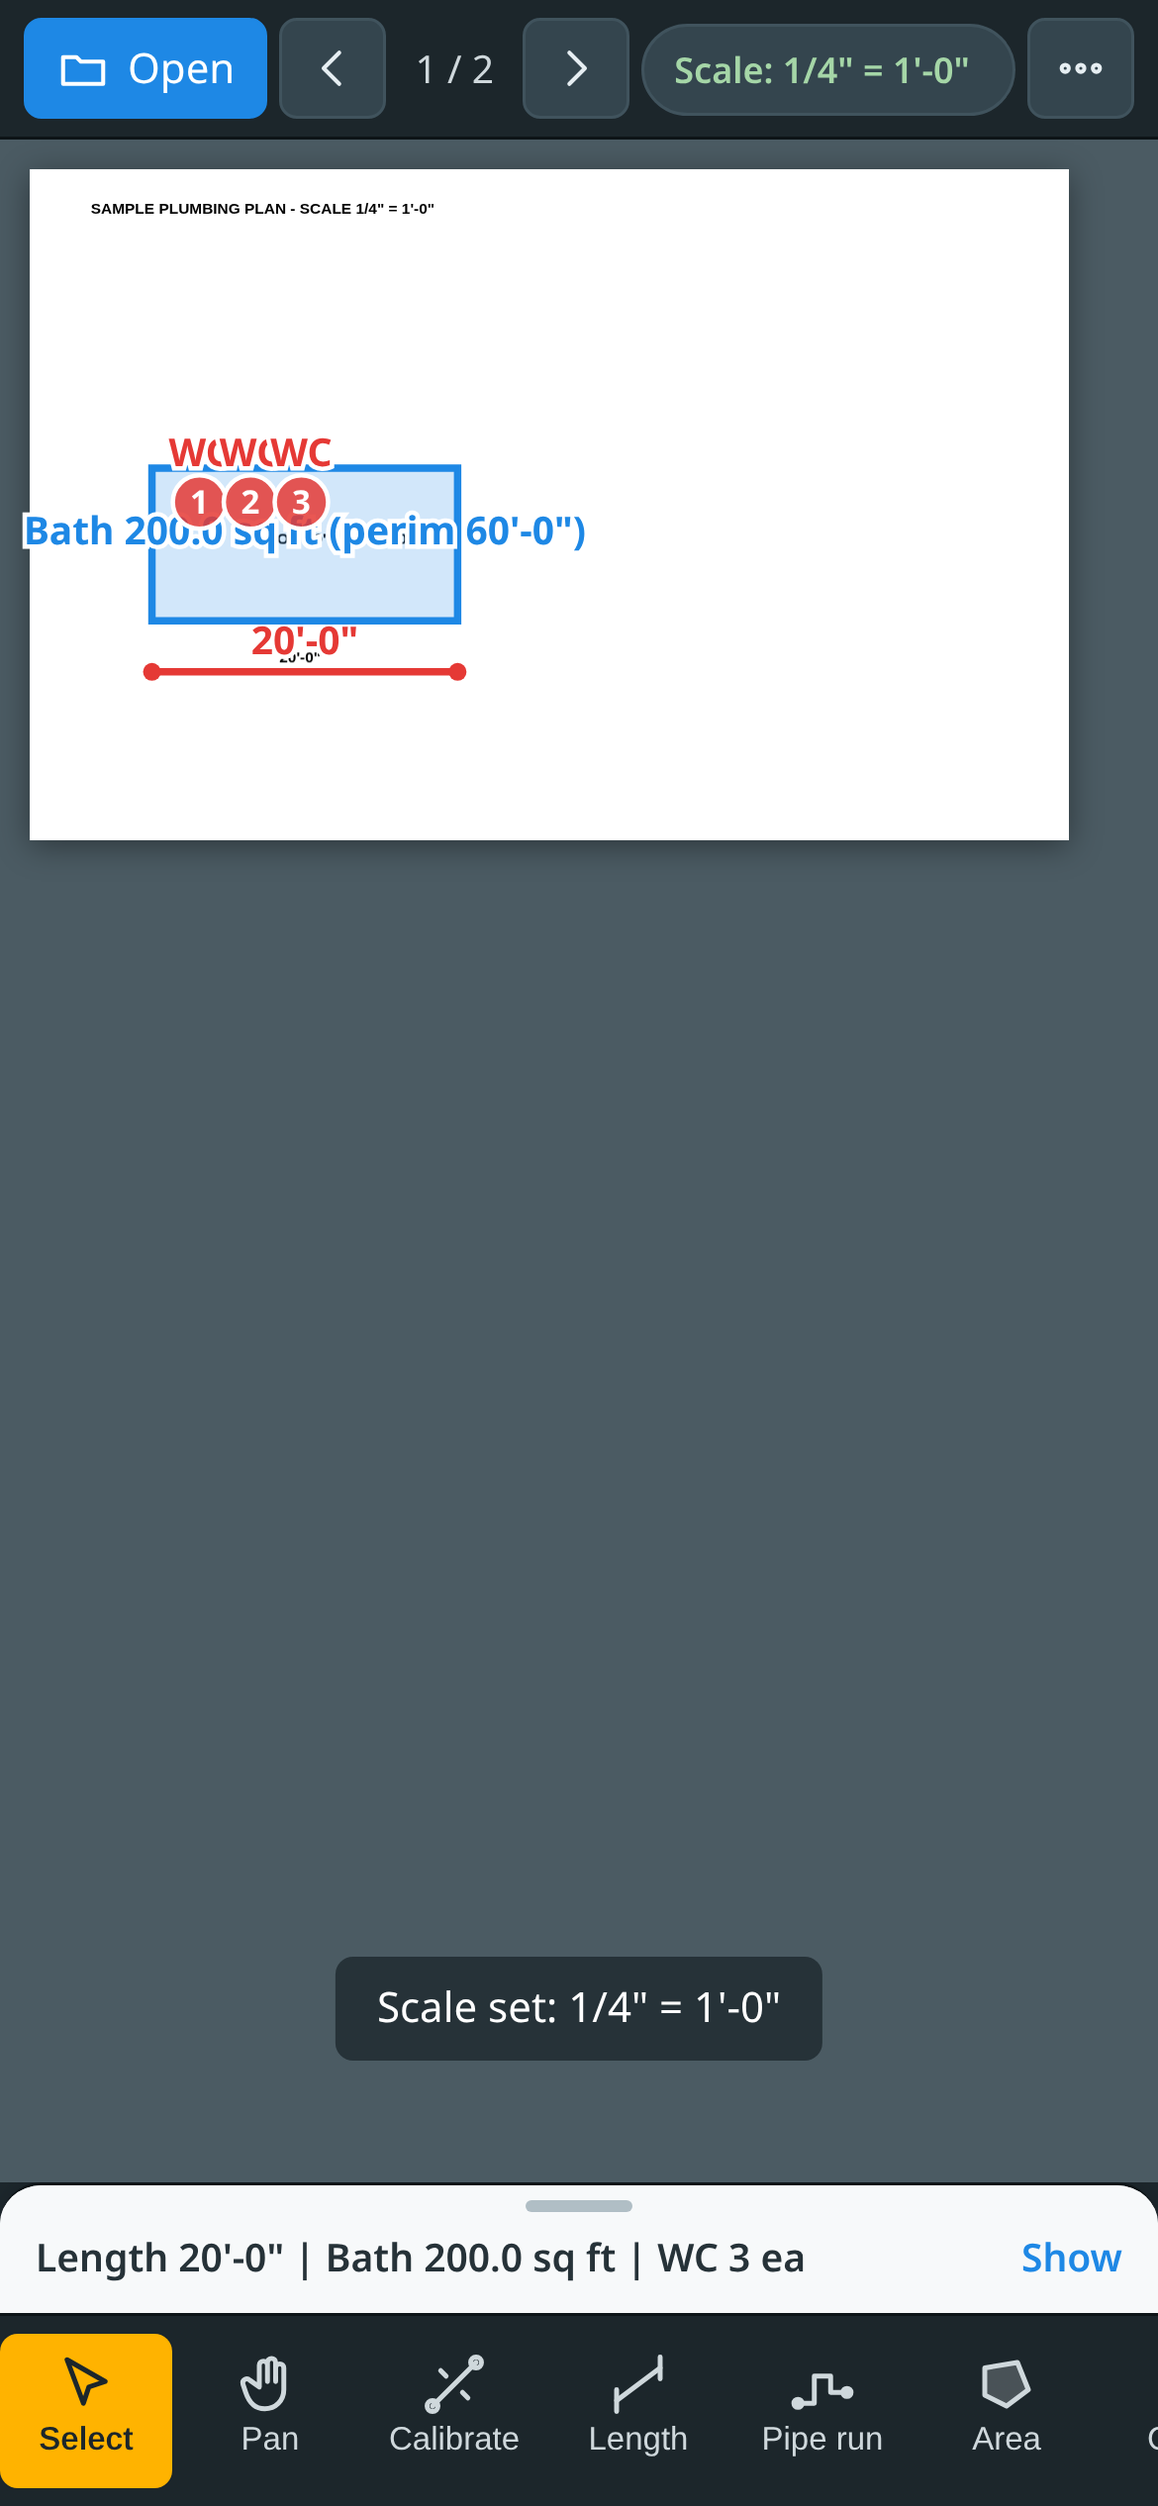
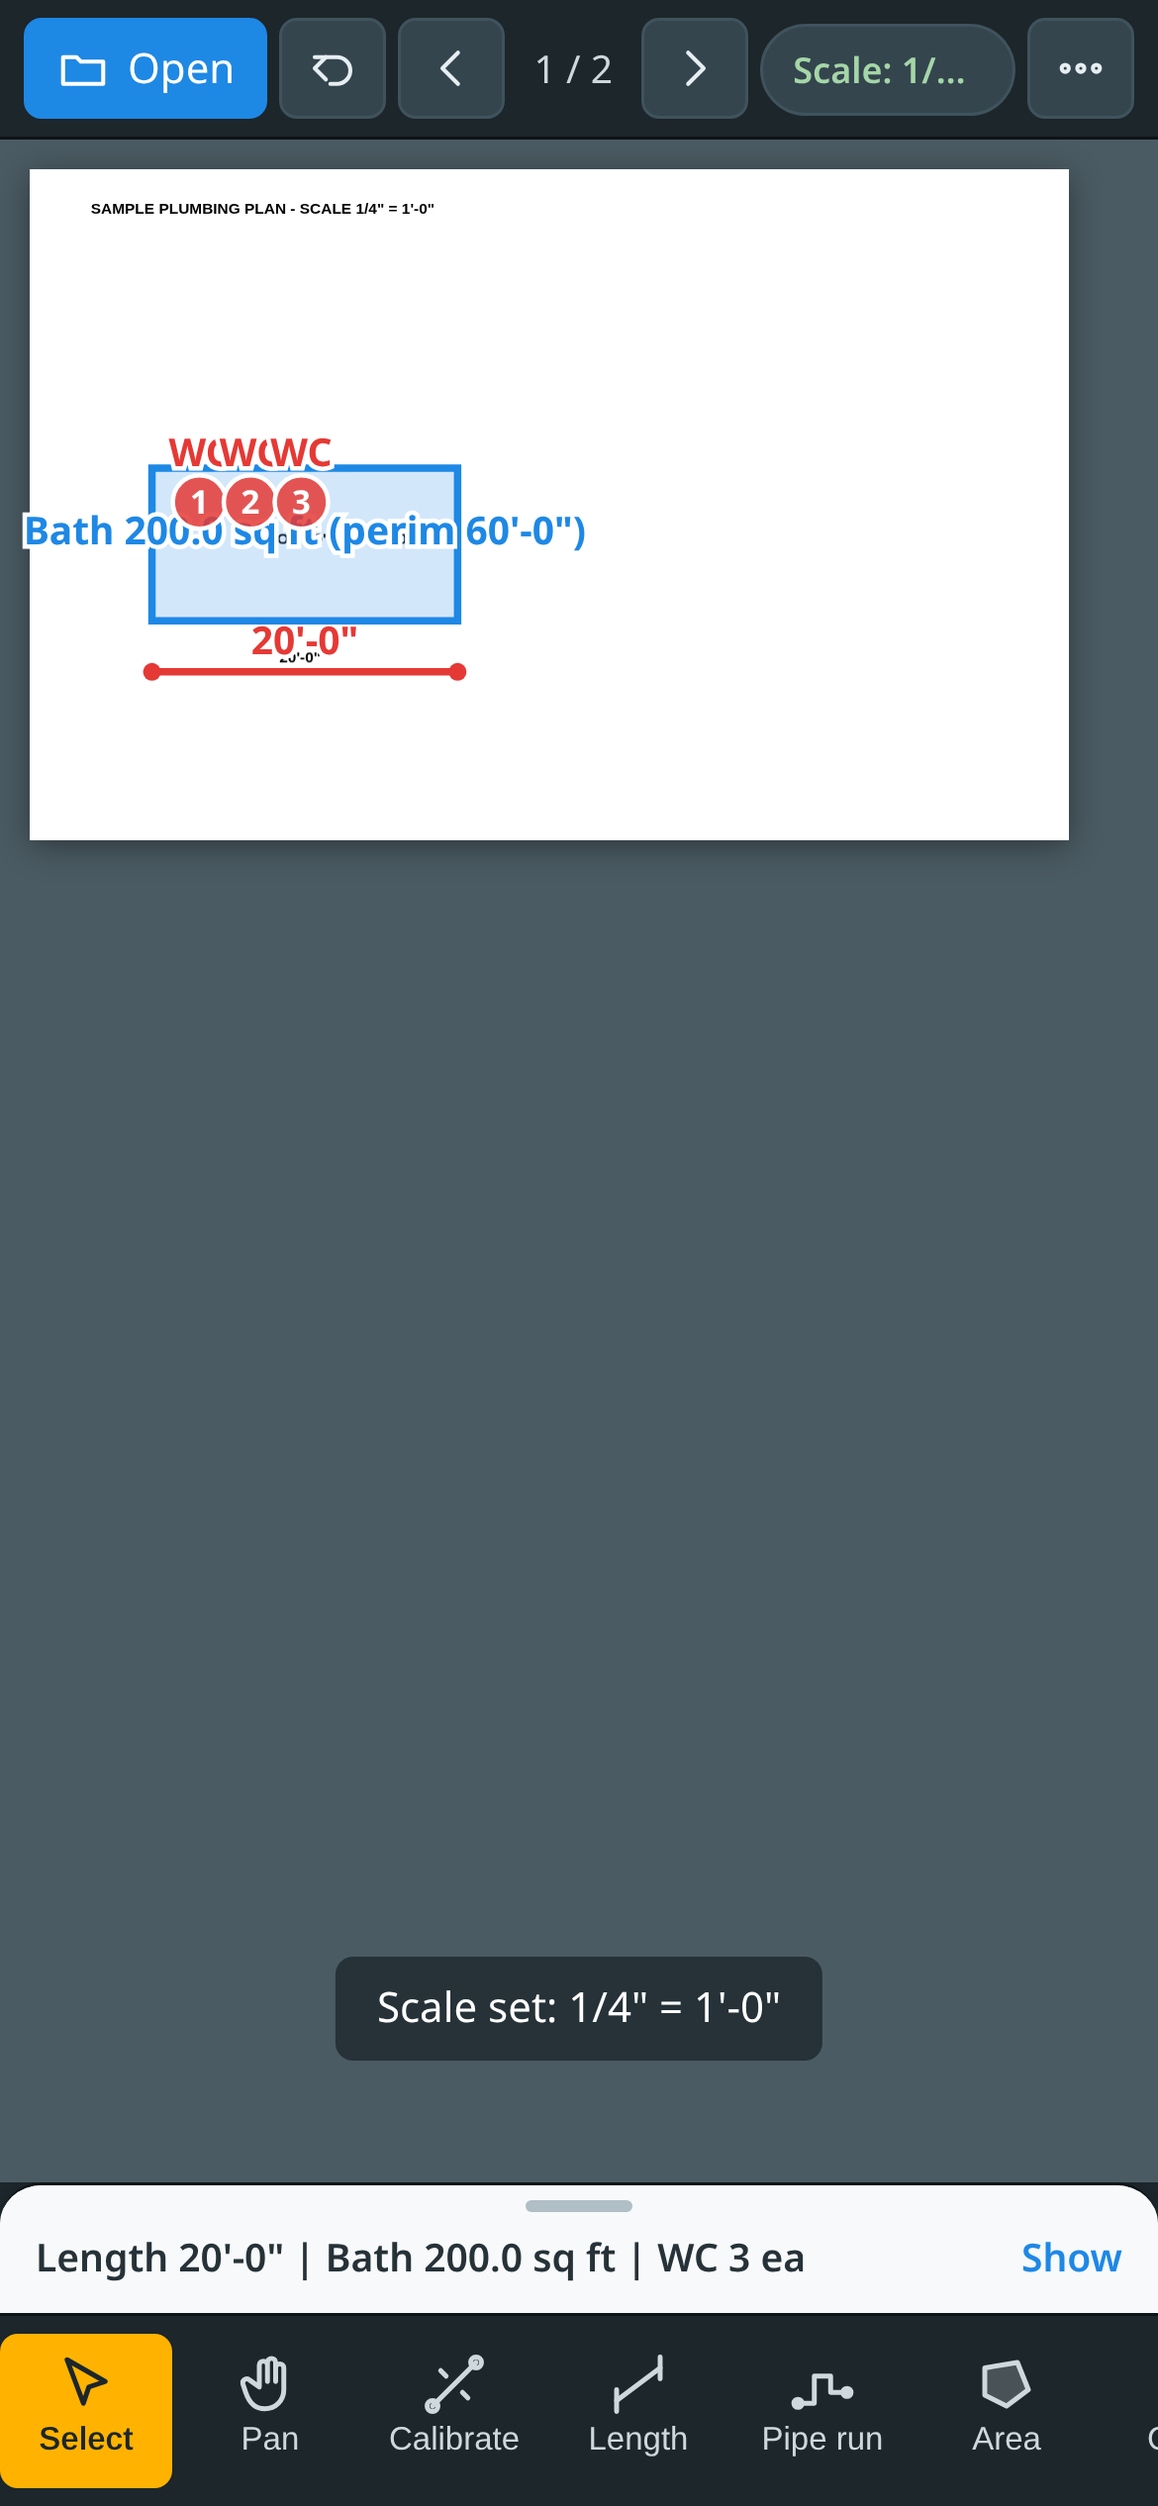
Undo/redo history

Changed region(s): [[0.3385, 0.0, 0.8308, 0.0624], [0.2769, 0.0, 0.3077, 0.0312]]

diff --git a/app.js b/app.js
@@ -39,7 +39,7 @@ async function onFile(e) { const f = e.target.files[0]; if (!f) return; e.target
   const bytes = new Uint8Array(await f.arrayBuffer());
   await loadDoc(bytes, f.type || (f.name.toLowerCase().endsWith('.pdf') ? 'application/pdf' : 'image/png'), f.name);
   proj = { id: uid(), name: f.name.replace(/\.[^.]+$/, ''), fileName: f.name, fileType: doc.mime, units: $('#units').value, scales: {}, items: [] };
-  page = 1; fitPage(); await persist(); toast('Opened ' + f.name + '. Set the scale before measuring.');
+  page = 1; resetHist(); fitPage(); await persist(); toast('Opened ' + f.name + '. Set the scale before measuring.');
 }
 $('#file').addEventListener('change', onFile);
 
@@ -153,7 +153,7 @@ $('#eText').addEventListener('input', e => { const it = selItem(); if (it) { it.
 $('#eExtra').addEventListener('change', e => { const it = selItem(); if (!it) return; const v = e.target.value.trim() ? Units.parseLength(e.target.value, proj.units) : 0; if (isNaN(v)) return toast('Could not read that length'); it.extra = v; changed(); });
 $('#eDel').addEventListener('click', deleteSel);
 function deleteSel() { if (!selId) return; proj.items = proj.items.filter(i => i.id !== selId); selId = null; changed(); }
-function changed() { draw(); persistSoon(); }
+function changed() { draw(); persistSoon(); commitSoon(); }
 
 // ---------- navigation & zoom ----------
 function gotoPage(n) { if (!doc) return; n = Math.max(1, Math.min(doc.numPages, n)); if (n !== page) { page = n; draft = null; } fitPage(); }
@@ -265,6 +265,8 @@ document.addEventListener('keydown', e => {
   if (e.key.startsWith('Arrow') && draft && draft.pts.length) { e.preventDefault(); const d = { ArrowLeft: [-1, 0], ArrowRight: [1, 0], ArrowUp: [0, -1], ArrowDown: [0, 1] }[e.key]; nudge(d[0], d[1]); return; }
   if (e.key.toLowerCase() === 'm' && !e.ctrlKey && !e.metaKey) { toggleLoupe(); return; }
   if (e.key === 'Tab' && draft && draft.pts.length > 1) { e.preventDefault(); calSel = (calSel + 1) % draft.pts.length; draw(); return; }
+  if ((e.ctrlKey || e.metaKey) && (e.key.toLowerCase() === 'y' || (e.key.toLowerCase() === 'z' && e.shiftKey))) { e.preventDefault(); redo(); return; }
+  if ((e.ctrlKey || e.metaKey) && e.key.toLowerCase() === 'z') { e.preventDefault(); undo(); return; }
   if (e.key === 'Enter') { e.preventDefault(); finishDraft(); }
   else if (e.key === 'Escape') { draft = null; hover = null; selId = null; draw(); }
   else if (e.key === 'Delete' || (e.key === 'Backspace' && !draft)) deleteSel();
@@ -276,7 +278,7 @@ document.addEventListener('keyup', e => { if (e.key === 'Shift') shiftDown = fal
 // ---------- scale ----------
 Units.STD.forEach((s, i) => { const o = document.createElement('option'); o.value = i; o.textContent = s.name; $('#stdScale').appendChild(o); });
 $('#stdScale').value = Units.STD.findIndex(s => s.ratio === 48);
-function applyScale(mPerUnit, name, all) { const pgs = all ? Array.from({ length: doc.numPages }, (_, i) => i + 1) : [page]; proj.scaleNames = proj.scaleNames || {}; pgs.forEach(p => { proj.scales[p] = mPerUnit; proj.scaleNames[p] = name; }); layout(); persistSoon(); toast('Scale set: ' + name); }
+function applyScale(mPerUnit, name, all) { const pgs = all ? Array.from({ length: doc.numPages }, (_, i) => i + 1) : [page]; proj.scaleNames = proj.scaleNames || {}; pgs.forEach(p => { proj.scales[p] = mPerUnit; proj.scaleNames[p] = name; }); layout(); persistSoon(); commitHist(); toast('Scale set: ' + name); }
 $('#scaleBtn').onclick = () => { if (!doc) return toast('Open a plan first'); $('#imgDpiRow').hidden = doc.type !== 'image'; $('#scaleDlg').showModal(); };
 $('#scaleDlg').addEventListener('close', () => { if ($('#scaleDlg').returnValue !== 'ok') return; const s = Units.STD[$('#stdScale').value];
   let m = s.mPerPt; if (doc.type === 'image') m = s.ratio * Units.IN / (+$('#imgDpi').value || 150); applyScale(m, s.name, $('#allPages').checked); });
@@ -352,7 +354,7 @@ async function idb(mode, fn) { const d = await db(); return new Promise((res, re
 let saveTimer; function persistSoon() { clearTimeout(saveTimer); saveTimer = setTimeout(persist, 800); }
 async function persist() { if (!proj || !doc) return; try { await idb('readwrite', s => s.put({ ...JSON.parse(JSON.stringify(proj)), bytes: doc.bytes, updated: Date.now() })); localStorage.setItem('pm-last', proj.id); } catch (e) { toast('Could not save: ' + e.message); } }
 $('#saveBtn').onclick = async () => { if (!proj) return; const n = prompt('Project name:', proj.name); if (n) { proj.name = n; await persist(); toast('Saved in this browser'); } };
-async function openProject(id) { const r = await idb('readonly', s => s.get(id)); if (!r) return; const { bytes, updated, ...p } = r; await loadDoc(new Uint8Array(bytes), p.fileType, p.fileName); proj = p; $('#units').value = p.units; page = 1; selId = null; draft = null; fitPage(); localStorage.setItem('pm-last', id); }
+async function openProject(id) { const r = await idb('readonly', s => s.get(id)); if (!r) return; const { bytes, updated, ...p } = r; await loadDoc(new Uint8Array(bytes), p.fileType, p.fileName); proj = p; resetHist(); $('#units').value = p.units; page = 1; selId = null; draft = null; fitPage(); localStorage.setItem('pm-last', id); }
 $('#projBtn').onclick = async () => { const all = await idb('readonly', s => s.getAll()); all.sort((a, b) => b.updated - a.updated);
   $('#projList').innerHTML = all.map(p => `<div class="proj"><span>${esc(p.name)}<br><small>${new Date(p.updated).toLocaleString()} - ${p.items.length} items</small></span><button type="button" class="btn" data-open="${p.id}">Open</button><button type="button" class="btn danger" data-del="${p.id}">Delete</button></div>`).join('') || 'No saved projects.';
   $('#projDlg').showModal(); };
@@ -362,7 +364,7 @@ $('#projList').addEventListener('click', async e => { const o = e.target.dataset
 setTool('select'); $('#hint').textContent = 'Open a PDF or image plan to start. Your work is saved automatically in this browser.';
 (async () => { const last = localStorage.getItem('pm-last'); if (last) try { await openProject(last); } catch (e) { } })();
 // test hook
-window.PM = { get draft() { return draft; }, get proj() { return proj; }, get doc() { return doc; }, measure, buildCSV, buildPDF, setTool, gotoPage, applyScale, get zoom() { return zoom; } };
+window.PM = { undo: () => undo(), redo: () => redo(), get hist() { return { u: H.u.length, r: H.r.length }; }, get draft() { return draft; }, get proj() { return proj; }, get doc() { return doc; }, measure, buildCSV, buildPDF, setTool, gotoPage, applyScale, get zoom() { return zoom; } };
 $('#calVal').addEventListener('keydown', e => { if (e.key === 'Enter') { e.preventDefault(); $('#calDlg').close('ok'); } });
 // ---- icons (inline SVG, no external assets) ----
 const ICONS = {
@@ -371,7 +373,7 @@ const ICONS = {
  fit:'<path d="M4 9V4h5M20 9V4h-5M4 15v5h5M20 15v5h-5"/>', ruler:'<path d="M3 16L16 3l5 5L8 21z"/><path d="M7 12l2 2M10 9l2 2M13 6l2 2"/>',
  table:'<rect x="3" y="4" width="18" height="16" rx="1"/><path d="M3 10h18M3 15h18M9 4v16"/>', download:'<path d="M12 3v12M7 10l5 5 5-5M4 20h16"/>',
  panel:'<rect x="3" y="4" width="18" height="16" rx="1"/><path d="M15 4v16"/>', close:'<path d="M6 6l12 12M18 6L6 18"/>',
- select:'<path d="M5 3l14 8-6 2-2 6z"/>', loupe:'<circle cx="10" cy="10" r="6"/><path d="M14.5 14.5L20 20M10 7v6M7 10h6"/>', up:'<path d="M5 15l7-7 7 7"/>', down:'<path d="M5 9l7 7 7-7"/>', more:'<circle cx="5" cy="12" r="1.6"/><circle cx="12" cy="12" r="1.6"/><circle cx="19" cy="12" r="1.6"/>', hand:'<path d="M8 13V5a1.5 1.5 0 013 0v6M11 11V4a1.5 1.5 0 013 0v7M14 11V6a1.5 1.5 0 013 0v8c0 4-3 7-7 7s-6-3-7-6l-1-3a1.5 1.5 0 012.5-1.5L8 13"/>',
+ undo:'<path d="M9 14L4 9l5-5"/><path d="M4 9h10a6 6 0 010 12h-4"/>', redo:'<path d="M15 14l5-5-5-5"/><path d="M20 9H10a6 6 0 000 12h4"/>', select:'<path d="M5 3l14 8-6 2-2 6z"/>', loupe:'<circle cx="10" cy="10" r="6"/><path d="M14.5 14.5L20 20M10 7v6M7 10h6"/>', up:'<path d="M5 15l7-7 7 7"/>', down:'<path d="M5 9l7 7 7-7"/>', more:'<circle cx="5" cy="12" r="1.6"/><circle cx="12" cy="12" r="1.6"/><circle cx="19" cy="12" r="1.6"/>', hand:'<path d="M8 13V5a1.5 1.5 0 013 0v6M11 11V4a1.5 1.5 0 013 0v7M14 11V6a1.5 1.5 0 013 0v8c0 4-3 7-7 7s-6-3-7-6l-1-3a1.5 1.5 0 012.5-1.5L8 13"/>',
  cal:'<path d="M4 20L20 4"/><circle cx="4" cy="20" r="2"/><circle cx="20" cy="4" r="2"/><path d="M9 9l-2-2M15 15l2 2"/>', line:'<path d="M4 18L20 6"/><path d="M4 14v8M20 2v8"/>',
  poly:'<path d="M3 19h6V9h6v6h6"/><circle cx="3" cy="19" r="1.5"/><circle cx="21" cy="15" r="1.5"/>', area:'<path d="M4 6l12-2 4 10-8 6-8-4z" fill="currentColor" fill-opacity=".25"/>',
  count:'<circle cx="7" cy="8" r="3"/><circle cx="17" cy="8" r="3"/><circle cx="12" cy="17" r="3"/>', text:'<path d="M5 5h14M12 5v14M9 19h6"/>'
@@ -478,3 +480,22 @@ const _udb = updateDrawBar; updateDrawBar = function () { _udb(); const adj = !!
   document.body.classList.toggle('placing', PLACE.includes(tool)); $('#ptSel').textContent = 'Point ' + (Math.min(calSel, draft ? draft.pts.length - 1 : 0) + 1); };
 const _setTool = setTool; setTool = function (t) { hideLoupe(); _setTool(t); };
 document.querySelectorAll('.tool').forEach(b => b.onclick = () => setTool(b.dataset.tool));
+
+// ---- undo / redo history (snapshots of items + scales, max 100) ----
+const H = { u: [], r: [], cur: null, t: null };
+const snap = () => JSON.stringify({ items: proj.items, scales: proj.scales, scaleNames: proj.scaleNames || {} });
+function resetHist() { H.u = []; H.r = []; H.cur = proj ? snap() : null; clearTimeout(H.t); H.t = null; updHistBtns(); }
+function commitHist() { clearTimeout(H.t); H.t = null; if (!proj) return; const s = snap(); if (H.cur !== null && s !== H.cur) { H.u.push(H.cur); if (H.u.length > 100) H.u.shift(); H.r = []; } H.cur = s; updHistBtns(); }
+function commitSoon() { clearTimeout(H.t); H.t = setTimeout(commitHist, 400); updHistBtns(); }
+function restore(s) { const o = JSON.parse(s); proj.items = o.items; proj.scales = o.scales; proj.scaleNames = o.scaleNames; H.cur = s;
+  if (selId && !proj.items.some(i => i.id === selId)) selId = null; layout(); persistSoon(); updHistBtns(); }
+function undo() {
+  if (draft && draft.pts.length) { draft.pts.pop(); if (!draft.pts.length) draft = null; draw(); updHistBtns(); return; }
+  commitHist(); if (!H.u.length) return; H.r.push(H.cur); restore(H.u.pop()); toast('Undone');
+}
+function redo() { commitHist(); if (!H.r.length) return; H.u.push(H.cur); restore(H.r.pop()); toast('Redone'); }
+function updHistBtns() { const pending = !!H.t; const canU = !!(draft && draft.pts.length) || H.u.length > 0 || !!pending, canR = H.r.length > 0 && !pending;
+  $('#undoBtn').disabled = !canU; $('#redoBtn').disabled = !canR; $('#redoMenu').disabled = !canR; }
+$('#undoBtn').onclick = undo; $('#redoBtn').onclick = redo;
+const _draw2 = draw; draw = function () { _draw2(); updHistBtns(); };
+if (proj) resetHist();

diff --git a/index.html b/index.html
@@ -9,6 +9,7 @@
   <label class="btn primary" data-icon="open">Open plan<input id="file" type="file" accept="application/pdf,image/*" hidden></label>
   <button id="saveBtn" class="btn" title="Save project" data-icon="save">Save</button>
   <button id="projBtn" class="btn" title="Saved projects" data-icon="folder">Projects</button>
+  <button id="undoBtn" class="btn icon" data-icon="undo" title="Undo (Ctrl+Z)" disabled></button><button id="redoBtn" class="btn icon" data-icon="redo" title="Redo (Ctrl+Shift+Z / Ctrl+Y)" disabled></button>
   <span class="sep"></span>
   <button id="prev" class="btn icon" data-icon="left" title="Previous page"></button><span id="pageInfo">-</span><button id="next" class="btn icon" data-icon="right" title="Next page"></button>
   <span class="sep"></span>
@@ -42,6 +43,7 @@
 </nav>
 <div id="drawBar"><div id="drawSlot"></div><button id="cancelBtn" class="btn small" data-icon="close">Cancel</button></div>
 <div id="moreMenu" hidden>
+  <button class="btn" data-icon="redo" data-proxy="#redoBtn" id="redoMenu">Redo</button>
   <button class="btn" data-icon="ruler" data-proxy="#scaleBtn">Set scale</button>
   <button class="btn" data-icon="fit" data-proxy="#fit">Fit page</button>
   <button class="btn" data-icon="save" data-proxy="#saveBtn">Save</button>

diff --git a/style.css b/style.css
@@ -142,3 +142,7 @@ body:not(.caladj) #calSetBtn{display:none}
 @media (min-width:701px) and (max-width:1500px){#tools .tool span.t{display:none}}
 @media (max-width:700px){body.caladj #undoPt{display:none}body.caladj #cancelBtn .t{display:none}body.caladj #ptSel{padding:4px 6px}}
 @media (max-width:700px){body.cal.adj.placing #drawSlot .opt.lp,body.adj.placing #drawSlot .opt.lp{display:none}}
+.btn:disabled{opacity:.4;cursor:default}
+#moreMenu .btn:disabled{opacity:.35}
+@media (min-width:701px){#redoMenu{display:none}}
+@media (max-width:700px){#redoBtn{display:none}#undoBtn{padding:6px}}

diff --git a/test/undo.py b/test/undo.py
@@ -1,0 +1,46 @@
+import sys, json
+from playwright.sync_api import sync_playwright
+URL=sys.argv[1]; H=792; IN=72; ok=True
+def chk(n,c):
+    global ok; ok&=bool(c); print(('PASS ' if c else 'FAIL ')+n)
+with sync_playwright() as p:
+    b=p.chromium.launch(executable_path='/usr/bin/google-chrome',args=['--no-sandbox'])
+    pg=b.new_page(viewport={'width':1600,'height':950}); errs=[]; pg.on('pageerror',lambda e:errs.append(str(e)))
+    pg.goto(URL); pg.set_input_files('#file','test/sample-plan.pdf'); pg.wait_for_function('window.PM.proj'); pg.wait_for_timeout(400)
+    def scr(x,y):
+        r=pg.evaluate("(()=>{const r=document.querySelector('#svg').getBoundingClientRect();return [r.left,r.top]})()"); z=pg.evaluate('PM.zoom'); return r[0]+x*z, r[1]+(H-y)*z
+    def n(): return pg.evaluate('PM.proj.items.length')
+    chk('undo disabled at start', pg.is_disabled('#undoBtn') and pg.is_disabled('#redoBtn'))
+    pg.click('#scaleBtn'); pg.select_option('#stdScale',label='1/4" = 1\'-0"'); pg.click('#stdOk')
+    pg.click('[data-tool=line]'); pg.mouse.click(*scr(144,200)); pg.mouse.click(*scr(504,200)); pg.wait_for_timeout(500)
+    pg.click('[data-tool=poly]'); pg.mouse.click(*scr(600,200)); pg.mouse.click(*scr(700,200)); pg.mouse.click(*scr(700,300))
+    pg.click('#undoBtn'); chk('undo while drawing removes last point', pg.evaluate('PM.draft.pts.length')==2); pg.click('#finishBtn'); pg.wait_for_timeout(500)
+    chk('2 items', n()==2)
+    # move (drag) line item with select tool
+    pg.click('[data-tool=select]'); a=scr(300,200); pg.mouse.move(*a); pg.mouse.down(); pg.mouse.move(a[0],a[1]+40,steps=5); pg.mouse.up(); pg.wait_for_timeout(500)
+    y_after=pg.evaluate('PM.proj.items[0].pts[0][1]')
+    pg.fill('#eLabel','Main'); pg.wait_for_timeout(600)
+    pg.evaluate('document.activeElement.blur()'); pg.keyboard.press('Delete'); pg.wait_for_timeout(500); chk('deleted', n()==1)
+    pg.keyboard.press('Control+z'); pg.wait_for_timeout(100); chk('ctrl+z restores delete', n()==2 and pg.evaluate('PM.proj.items[0].label')=='Main')
+    pg.click('#undoBtn'); chk('undo label edit', pg.evaluate('PM.proj.items[0].label')=='')
+    pg.click('#undoBtn'); chk('undo move', abs(pg.evaluate('PM.proj.items[0].pts[0][1]')-(H-200))<0.01 and y_after!=H-200)
+    pg.click('#undoBtn'); chk('undo add poly', n()==1)
+    pg.click('#undoBtn'); chk('undo add line', n()==0)
+    pg.click('#undoBtn'); chk('undo scale', not pg.evaluate('PM.proj.scales[1]'))
+    chk('undo disabled when empty', pg.is_disabled('#undoBtn'))
+    pg.keyboard.press('Control+Shift+Z'); chk('redo scale', bool(pg.evaluate('PM.proj.scales[1]')))
+    pg.keyboard.press('Control+y'); pg.click('#redoBtn'); chk('redo adds', n()==2)
+    pg.wait_for_timeout(1200); pg.reload(); pg.wait_for_function('window.PM.proj && PM.proj.items.length>0')
+    chk('autosave kept post-redo state', n()==2 and bool(pg.evaluate('PM.proj.scales[1]')))
+    chk('no errors '+str(errs), not errs); pg.close()
+    ctx=b.new_context(viewport={'width':390,'height':844},device_scale_factor=3,is_mobile=True,has_touch=True); pg=ctx.new_page(); pg.goto(URL)
+    pg.set_input_files('#file2','test/sample-plan.pdf'); pg.wait_for_function('window.PM.proj'); pg.wait_for_timeout(400)
+    pg.tap('[data-tool=count]')
+    r=pg.evaluate("(()=>{const r=document.querySelector('#svg').getBoundingClientRect();return [r.left,r.top]})()")
+    pg.touchscreen.tap(r[0]+60,r[1]+60); pg.wait_for_timeout(600)
+    chk('phone undo visible+enabled', pg.is_visible('#undoBtn') and pg.is_enabled('#undoBtn'))
+    pg.screenshot(path='shots/phone-undo.png', clip={'x':0,'y':0,'width':390,'height':120})
+    pg.tap('#undoBtn'); chk('phone undo', pg.evaluate('PM.proj.items.length')==0)
+    pg.tap('#moreBtn'); chk('redo in phone menu enabled', pg.is_enabled('#redoMenu')); pg.tap('#redoMenu'); chk('phone redo', pg.evaluate('PM.proj.items.length')==1)
+    b.close()
+print('UNDO PASS' if ok else 'UNDO FAIL')
